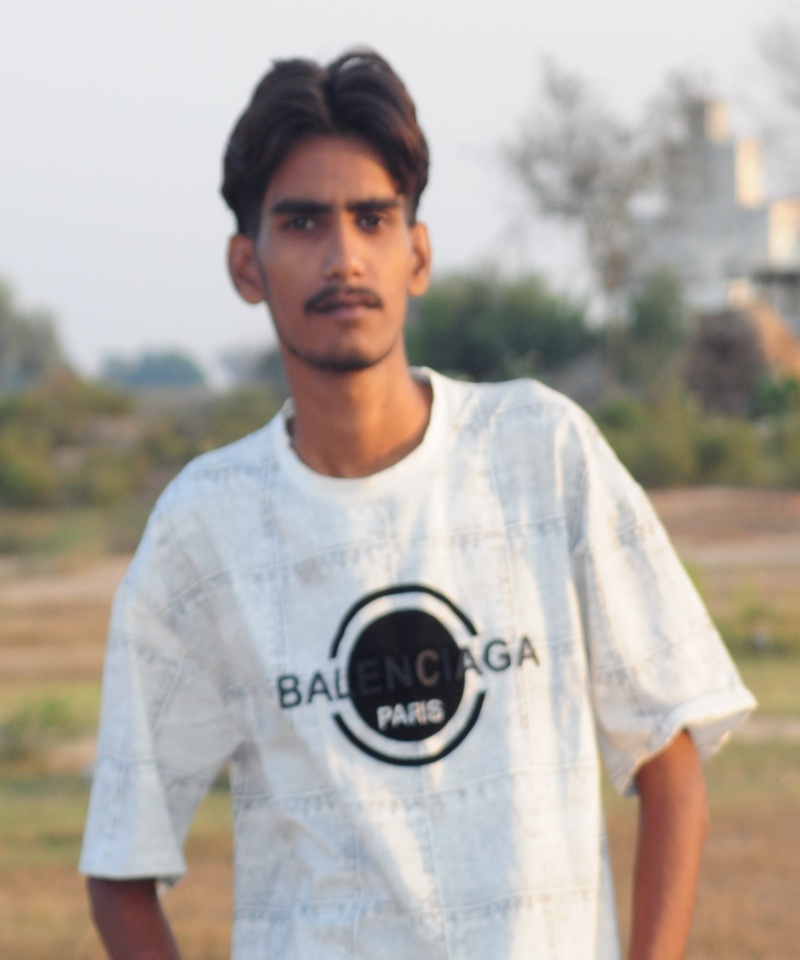
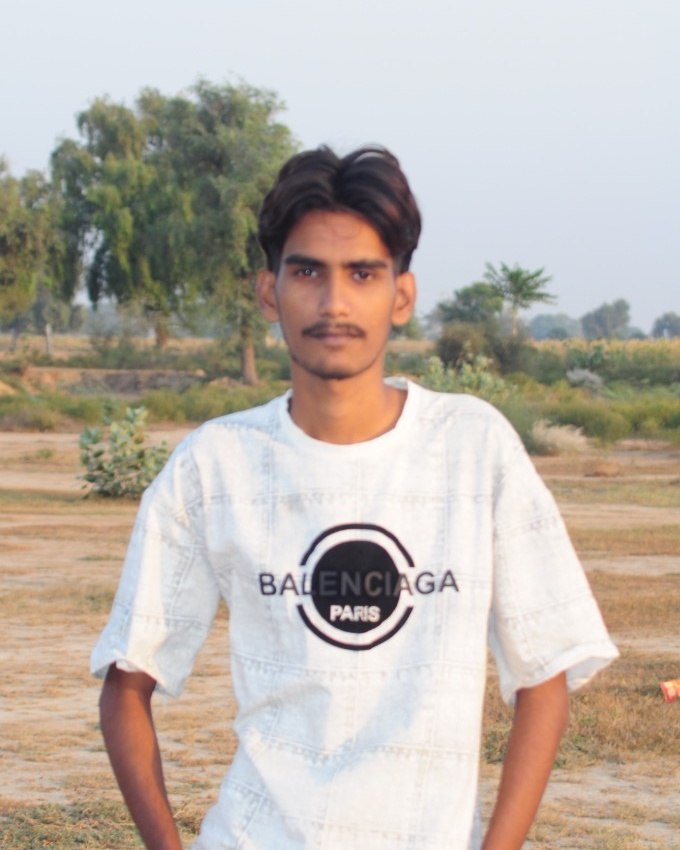
Update profile photo with new upload and fix layout overlaps

diff --git a/style.css b/style.css
@@ -577,7 +577,7 @@ body {
   width: 100%;
   height: 100%;
   object-fit: cover;
-  object-position: center top;
+  object-position: center center;
   display: block;
   transition: transform 0.4s ease;
 }
@@ -593,62 +593,56 @@ body {
   pointer-events: none;
 }
 
-.portrait-tag {
-  position: absolute;
-  bottom: 16px;
-  left: 16px;
-  display: flex;
-  align-items: center;
-  gap: 7px;
-  background: rgba(14, 14, 18, 0.88);
-  border: 1px solid rgba(255, 94, 20, 0.3);
-  padding: 6px 14px;
-  border-radius: var(--radius-full);
-  font-size: 12px;
-  font-weight: 600;
-  color: #FFFFFF;
-  backdrop-filter: blur(10px);
-}
-
-.tag-dot {
-  width: 7px;
-  height: 7px;
-  border-radius: 50%;
-  background: var(--accent-orange-bright);
-  box-shadow: 0 0 6px var(--accent-orange-bright);
-}
-
-/* Floating Badges */
+/* Floating Badges - Clean & Non-Overlapping */
 .floating-badge {
   position: absolute;
-  z-index: 2;
-  background: rgba(18, 18, 24, 0.94);
-  border: 1px solid rgba(255, 94, 20, 0.3);
+  z-index: 3;
+  background: rgba(18, 18, 24, 0.95);
+  border: 1px solid rgba(255, 94, 20, 0.35);
   padding: 8px 14px;
   border-radius: 12px;
-  box-shadow: 0 10px 25px rgba(0, 0, 0, 0.45);
+  box-shadow: 0 12px 28px rgba(0, 0, 0, 0.55), 0 0 15px rgba(255, 94, 20, 0.12);
   display: flex;
   align-items: center;
   gap: 10px;
-  backdrop-filter: blur(12px);
+  backdrop-filter: blur(14px);
+  white-space: nowrap;
 }
 
 .badge-exp {
-  top: 10%;
+  top: -12px;
   left: -20px;
 }
 
 .badge-clients {
-  bottom: 14%;
-  right: -20px;
+  bottom: 25px;
+  right: -25px;
 }
 
-.badge-tools {
-  bottom: -15px;
-  left: 50%;
-  transform: translateX(-50%);
-  gap: 6px;
-  padding: 6px 12px;
+/* Portrait Caption - Sits Below Card in Normal Flow (Never Collides) */
+.portrait-caption {
+  margin-top: 14px;
+  display: flex;
+  align-items: center;
+  justify-content: center;
+  gap: 8px;
+  background: rgba(18, 18, 24, 0.85);
+  border: 1px solid rgba(255, 94, 20, 0.25);
+  padding: 8px 18px;
+  border-radius: var(--radius-full);
+  font-size: 13px;
+  font-weight: 600;
+  color: var(--text-secondary);
+  backdrop-filter: blur(10px);
+  box-shadow: 0 4px 15px rgba(0, 0, 0, 0.4);
+}
+
+.caption-dot {
+  width: 8px;
+  height: 8px;
+  border-radius: 50%;
+  background: var(--accent-orange-bright);
+  box-shadow: 0 0 8px var(--accent-orange-bright);
 }
 
 .badge-icon-box {
@@ -1564,10 +1558,12 @@ dialog[open] {
   }
 
   .badge-exp {
+    top: -10px;
     left: 0;
   }
 
   .badge-clients {
+    bottom: -10px;
     right: 0;
   }
 

diff --git a/index.html b/index.html
@@ -130,14 +130,10 @@
               <div class="card-inner">
                 <img src="assets/images/lalit_hero.jpg" alt="Lalit Mangal - Video Editor" class="portrait-img" loading="eager">
                 <div class="portrait-gradient"></div>
-                <div class="portrait-tag">
-                  <span class="tag-dot"></span>
-                  <span>Lalit Mangal &bull; Video Editor</span>
-                </div>
               </div>
             </div>
 
-            <!-- Floating Badges neatly styled -->
+            <!-- Two Clean Floating Badges (Positioned at Opposite Corners Without Overlapping) -->
             <div class="floating-badge badge-exp">
               <span class="badge-icon-box">⚡</span>
               <div>
@@ -154,10 +150,10 @@
               </div>
             </div>
 
-            <div class="floating-badge badge-tools">
-              <span class="tool-tag">Premiere Pro</span>
-              <span class="tool-tag">After Effects</span>
-              <span class="tool-tag">DaVinci</span>
+            <!-- Clean Caption In Normal Flow (Never Overlaps) -->
+            <div class="portrait-caption">
+              <span class="caption-dot"></span>
+              <span>Lalit Mangal &bull; Video Editor &bull; Hisar</span>
             </div>
           </div>
         </div>
